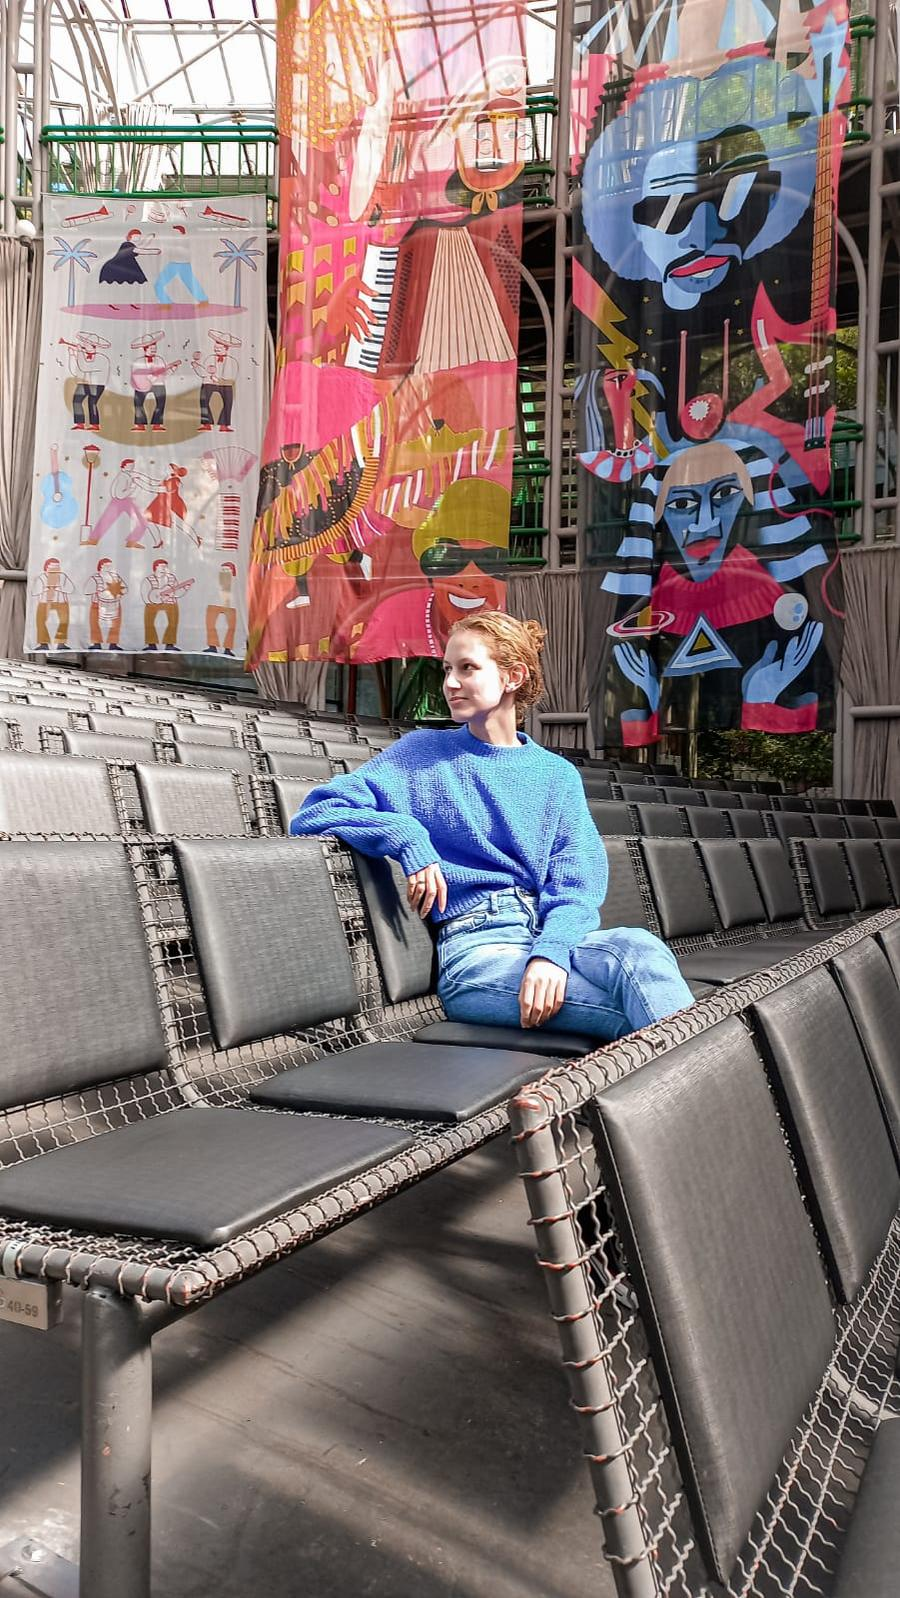
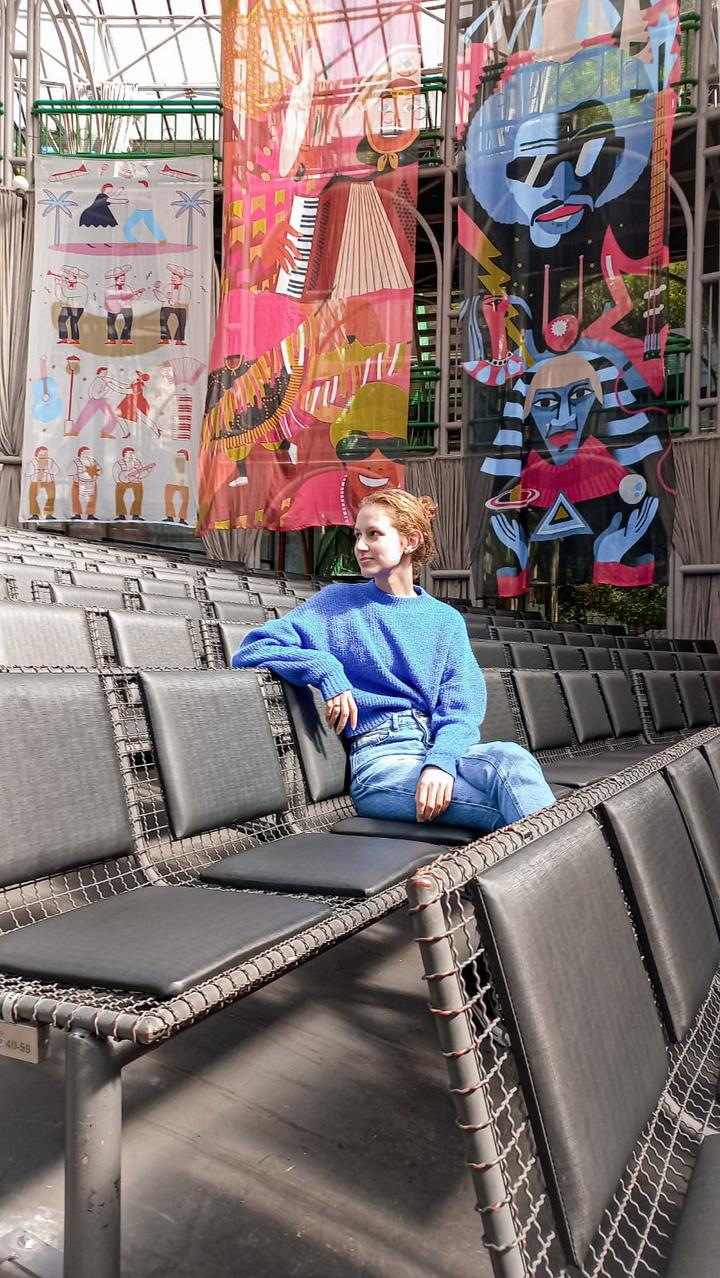
segundo commit

diff --git a/main.py b/main.py
@@ -9,32 +9,89 @@ import cv2
 import extcolors
 from colormap import rgb2hex
 
-input_name = 'foto.jpeg'
-output_width = 900                 
-img = Image.open(input_name)
-wpercent = (output_width/float(img.size[0]))
-hsize = int((float(img.size[1])*float(wpercent)))
-img = img.resize((output_width,hsize), Image.ANTIALIAS)
-
-resize_name = 'resize_' + input_name 
-img.save(resize_name)                
-
-plt.figure(figsize=(9, 9))
-img_url = resize_name
-img = plt.imread(img_url)
-plt.imshow(img)
-plt.axis('off')
-plt.show()
 
 
 
+def exact_color(input_image, resize, tolerance, zoom):
+    #background
+    bg = 'bg.png'
+    fig, ax = plt.subplots(figsize=(192,108),dpi=10)
+    fig.set_facecolor('white')
+    plt.savefig(bg)
+    plt.close(fig)
+    
+    #resize
+    output_width = resize
+    img = Image.open(input_image)
+    if img.size[0] >= resize:
+        wpercent = (output_width/float(img.size[0]))
+        hsize = int((float(img.size[1])*float(wpercent)))
+        img = img.resize((output_width,hsize), Image.ANTIALIAS)
+        resize_name = 'resize_'+ input_image
+        img.save(resize_name)
+    else:
+        resize_name = input_image
+    
+    #crate dataframe
+    img_url = resize_name
+    colors_x = extcolors.extract_from_path(img_url, tolerance = tolerance, limit = 13)
+    df_color = color_to_df(colors_x)
+    
+    #annotate text
+    list_color = list(df_color['c_code'])
+    list_precent = [int(i) for i in list(df_color['occurence'])]
+    text_c = [c + ' ' + str(round(p*100/sum(list_precent),1)) +'%' for c, p in zip(list_color, list_precent)]
+    fig, (ax1, ax2) = plt.subplots(1, 2, figsize=(160,120), dpi = 10)
+    
+    #donut plot
+    wedges, text = ax1.pie(list_precent,
+                           labels= text_c,
+                           labeldistance= 0.80,
+                           colors = list_color,
+                           textprops={'fontsize': 100, 'color':'black'})
+    plt.setp(wedges, width=0.3)
+    
+    #color palette
+    x_posi, y_posi, y_posi2 = 160, -170, -180
+    for c in list_color:
+        if list_color.index(c) <= 5:
+            y_posi += 180
+            rect = patches.Rectangle((x_posi, y_posi), 360, 160, facecolor = c)
+            ax2.add_patch(rect)
+            ax2.text(x = x_posi+400, y = y_posi+100, s = c, fontdict={'fontsize': 150})
+        else:
+            y_posi2 += 180
+            rect = patches.Rectangle((x_posi + 1000, y_posi2), 360, 160, facecolor = c)
+            ax2.add_artist(rect)
+            ax2.text(x = x_posi+1400, y = y_posi2+100, s = c, fontdict={'fontsize': 150})
 
+        #add image in the center of donut plot
+    img = mpimg.imread(resize_name)
+    imagebox = OffsetImage(img, zoom=zoom)
+    ab = AnnotationBbox(imagebox, (1, 1))
+    ax1.add_artist(ab)
 
+    fig.set_facecolor('white')
+    ax2.axis('off')
+    bg = plt.imread('bg.png')
+    plt.imshow(bg)       
+    plt.tight_layout()
+    return plt.show()
 
+def color_to_df(input):
+    colors_pre_list = str(input).replace('([(','').split(', (')[0:-1]
+    df_rgb = [i.split('), ')[0] + ')' for i in colors_pre_list]
+    df_percent = [i.split('), ')[1].replace(')','') for i in colors_pre_list]
+    
+    #convert RGB to HEX code
+    df_color_up = [rgb2hex(int(i.split(", ")[0].replace("(","")),
+                          int(i.split(", ")[1]),
+                          int(i.split(", ")[2].replace(")",""))) for i in df_rgb]
+    
+    df = pd.DataFrame(zip(df_color_up, df_percent), columns = ['c_code','occurence'])
+    return df
 
+colors_x = extcolors.extract_from_path('foto.jpeg', tolerance = 20, limit = 18)
+colors_x
 
-
-
-
-
-
+exact_color('foto.jpeg', 720, 20, 1)
